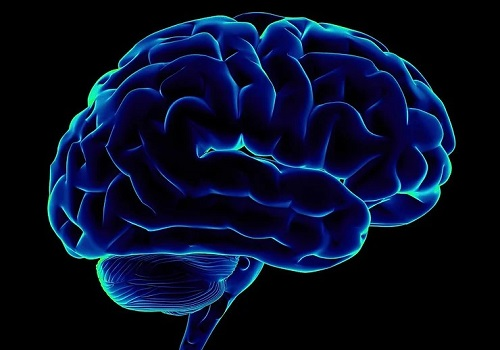
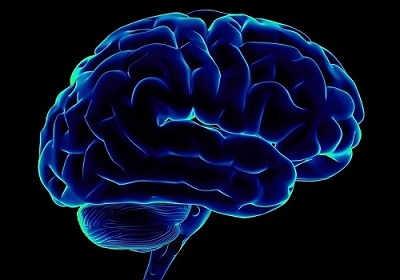
edit image

diff --git a/_includes/2016_css/agency.css b/_includes/2016_css/agency.css
@@ -339,7 +339,7 @@ header {
     text-align: center;
     color: #fff;
     background-attachment: scroll;
-    background-image: url('{{ site.baseurl }}/css/2017_style/img/brain.jpeg');
+    background-image: url('{{ site.baseurl }}/css/2017_style/img/brain-image2.jpg');
     background-position: center center;
     background-repeat: none;
     -webkit-background-size: cover;
